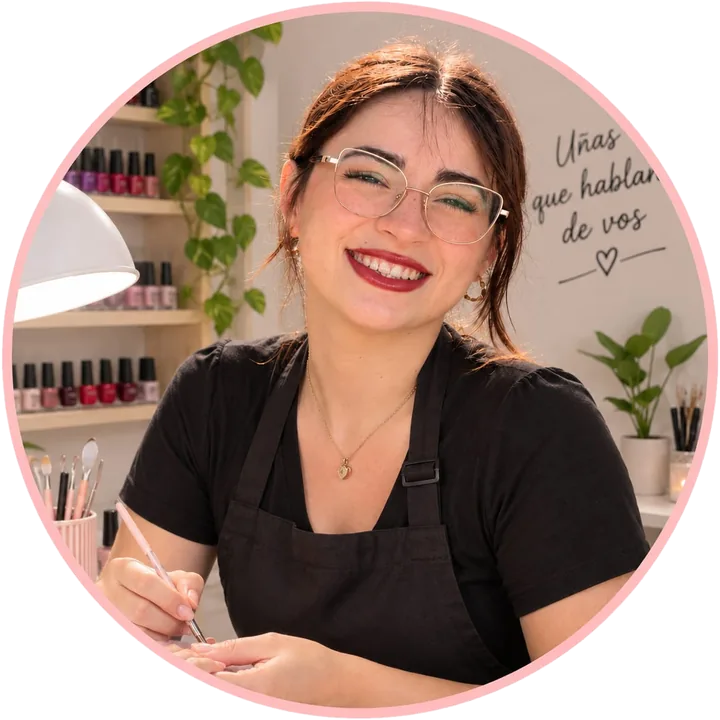
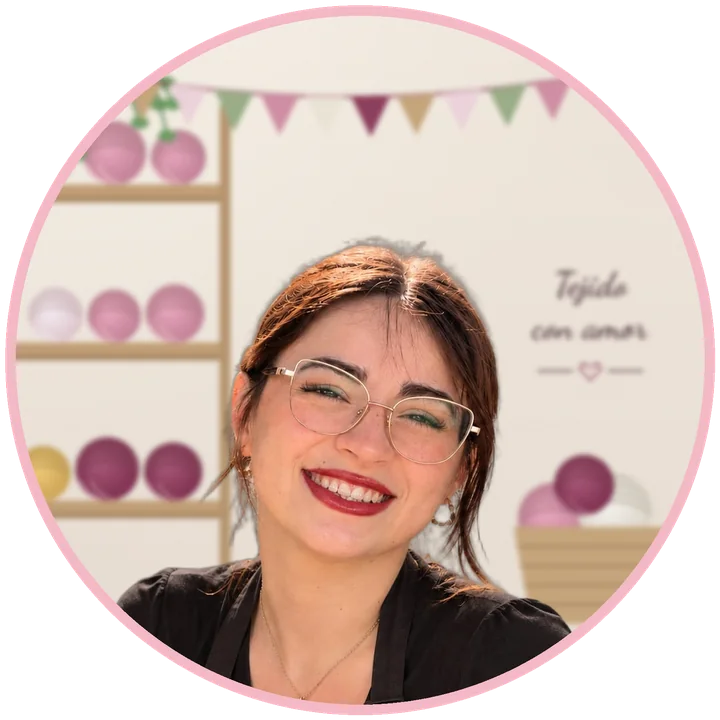
Foto de Sobre mí con fondo de taller de crochet
Persona recortada sobre un fondo ilustrado de taller (estantes con
ovillos, banderines, canasta y cartel "Tejido con amor"), encuadrada
a la altura de los hombros.

Claude-Session: https://claude.ai/code/session_01P5u6ZB8XouQtLgSNDzKELw

diff --git a/components/About.tsx b/components/About.tsx
@@ -18,7 +18,7 @@ export default function About() {
           <div aria-hidden="true" className="absolute -inset-3 rounded-full border-2 border-dashed border-mimbre" />
           <Image
             src={asset("/sobre-mi.webp")}
-            alt="Foto de la tejedora de Al Punto Paz, sonriendo en su espacio de trabajo"
+            alt="Foto de la tejedora de Al Punto Paz sonriendo en su taller, con estantes de ovillos y banderines tejidos"
             width={720}
             height={720}
             className="relative aspect-square w-full rounded-full object-cover drop-shadow-xl"
